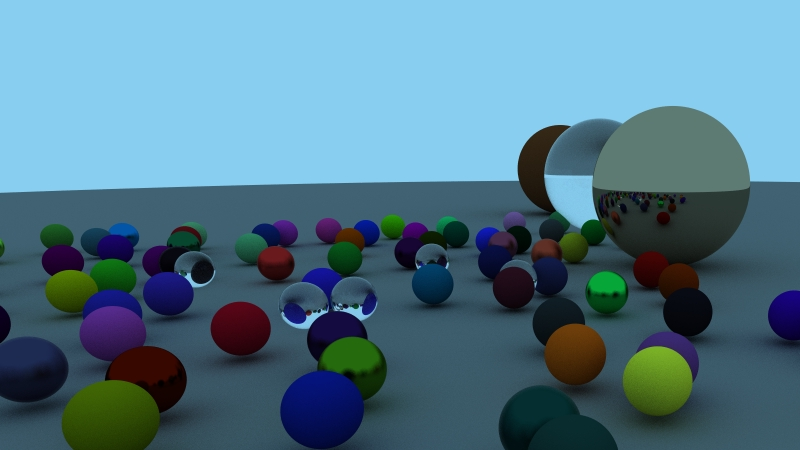
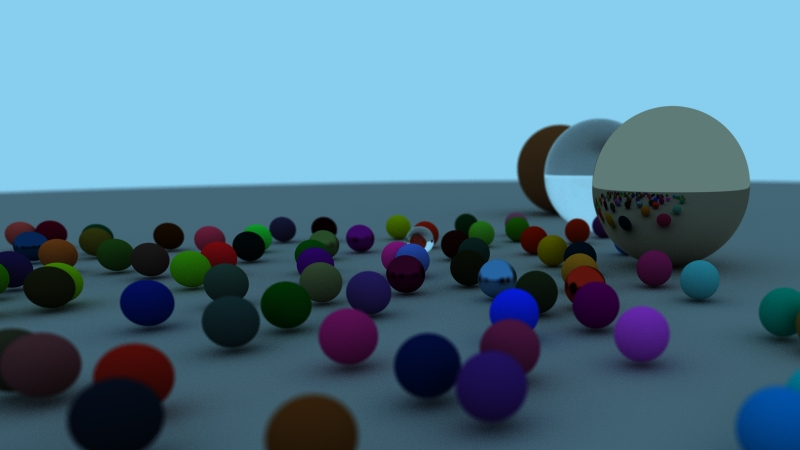
Add focal blur and rerender screenshots

diff --git a/internal/scenes/defocus.go b/internal/scenes/defocus.go
@@ -1,53 +1,42 @@
 package scenes
 
 import (
-	"math"
 	"math/rand/v2"
 
 	"github.com/quintenbruynseraede/ray-tracing/internal"
 	. "github.com/quintenbruynseraede/ray-tracing/internal"
 )
 
-func LoadCircleScene() (Camera, *HittableList) {
-	groundMat := Lambertian{C(0.5, 0.5, 0.5)}
+func LoadDefocusScene() (Camera, *HittableList) {
+	groundMat := Lambertian{C(0.7, 0.7, 0.7)}
 	ground := NewSphere(internal.NewVec3(0, -1000, 0), 1000, groundMat)
 
 	world := NewHittableList(ground)
 
-	N := 14
-	R := 10.0
-	angleStep := 2 * math.Pi / float64(N)
+	N := 10
 	for a := 0; a < N; a++ {
-		angle := angleStep * float64(a)
 		chooseMat := rand.Float64()
-		center := NewVec3(R*math.Cos(angle), 1, R*math.Sin(angle))
+		center := NewVec3(0, 1, -10+3*float64(a))
 
 		if chooseMat < 0.25 {
 			// Diffuse
 			world.Add(NewSphere(center, 1, Lambertian{Albedo: RandomColor()}))
 			world.Add(NewSphere(center, 1, Lambertian{Albedo: RandomColor()}))
-		} else if chooseMat < 0.75 {
+		} else {
 			// Metal
 			world.Add(NewSphere(center, 1, Metal{Albedo: RandomColor(), Fuzz: rand.Float64() / 4}))
-		} else {
-			// Glass
-			world.Add(NewSphere(center, 1, Dielectric{RefractionIndex: 1.5}))
 		}
 	}
-
-	// Central circle
-	mat3 := Metal{Albedo: C(0.9, 0.9, 0.9), Fuzz: 0.0}
-	world.Add(NewSphere(NewVec3(0, 6, 0), 5.0, mat3))
 
 	camera := NewCamera(
 		1200,
 		675,
-		70,
-		NewVec3(18, 6.5, 16),
-		NewVec3(7, -3, 0),
+		50,                  // FOV
+		NewVec3(-8, 8, -15), // Look from
+		NewVec3(0, -10, 15),
 		NewVec3(0, 1, 0),
 		1.0,
-		18.0,
+		20.0, // Focal dist
 	)
 
 	return camera, world

diff --git a/internal/camera.go b/internal/camera.go
@@ -11,7 +11,7 @@ import (
 const (
 	SAMPLES_PER_PIXEL = 500
 	SAMPLE_SCALE      = 1.0 / SAMPLES_PER_PIXEL
-	MAX_DEPTH         = 50
+	MAX_DEPTH         = 500
 )
 
 type Camera struct {
@@ -132,7 +132,14 @@ func (c *Camera) getRay(x, y int) *Ray {
 	pixelSample := c.Viewport.Pixel00Location.
 		Add(c.Viewport.PixelDeltaU.Mul(float64(x) + offsetX)).
 		Add(c.Viewport.PixelDeltaV.Mul(float64(y) + offsetY))
-	return NewRay(c.Center, pixelSample.Sub(c.Center))
+
+	var rayOrigin *Vec3
+	if c.defocusAngle <= 0 {
+		rayOrigin = c.Center
+	} else {
+		rayOrigin = c.defocusDiskSample()
+	}
+	return NewRay(rayOrigin, pixelSample.Sub(rayOrigin))
 }
 
 func sampleSquare() (float64, float64) {
@@ -171,7 +178,9 @@ func (c *Camera) rayColor(ray *Ray, depth int, world *HittableList) Color {
 // defocusDiskSample returns a random point in the camera defocus disk
 func (c *Camera) defocusDiskSample() *Vec3 {
 	p := RandomInUnitDisk()
-	return c.Center.Add(c.defocusDiskU.Mul(p.X)).Add(c.defocusDiskV.Mul(p.Y))
+	return c.Center.
+		Add(c.defocusDiskU.Mul(p.X)).
+		Add(c.defocusDiskV.Mul(p.Y))
 }
 
 type Viewport struct {

diff --git a/cmd/ray-tracing/main.go b/cmd/ray-tracing/main.go
@@ -36,7 +36,7 @@ type Game struct {
 }
 
 func NewGame() *Game {
-	camera, world := scenes.LoadCircleScene()
+	camera, world := scenes.LoadPart1FinalRender()
 
 	return &Game{
 		Image:  image.NewRGBA(image.Rect(0, 0, IMAGE_WIDTH, IMAGE_HEIGHT)),

diff --git a/internal/scenes/part1.go b/internal/scenes/part1.go
@@ -50,7 +50,7 @@ func LoadPart1FinalRender() (Camera, *HittableList) {
 		NewVec3(0, -2, 0),
 		NewVec3(0, 1, 0),
 		0.6,
-		10.0,
+		8.0,
 	)
 
 	return camera, world

diff --git a/internal/utils.go b/internal/utils.go
@@ -37,5 +37,5 @@ func SaveScreenshot(image *image.RGBA) {
 }
 
 func DegToRad(deg float64) float64 {
-	return deg * math.Pi / 180
+	return deg * math.Pi / 180.0
 }

diff --git a/README.md b/README.md
@@ -5,7 +5,18 @@ Go implementation of a basic Ray Tracing renderer, based on ['Ray Tracing in One
 ## Screenshots
 
 <center>
-<img src=".github/1.jpg" width="675">
-<img src=".github/2.jpg" width="675">
-</center>
+<p>
+  <img src=".github/1.jpg" width="675">
+  <em>Diffuse, metal and glass spheres</em>
+</p>
 
+<p>
+  <img src=".github/2.jpg" width="675">
+  <em>Reflection</em>
+</p>
+
+<p>
+  <img src=".github/3.jpg" width="675">
+  <em>Focal blur</em>
+</p>
+</center>
